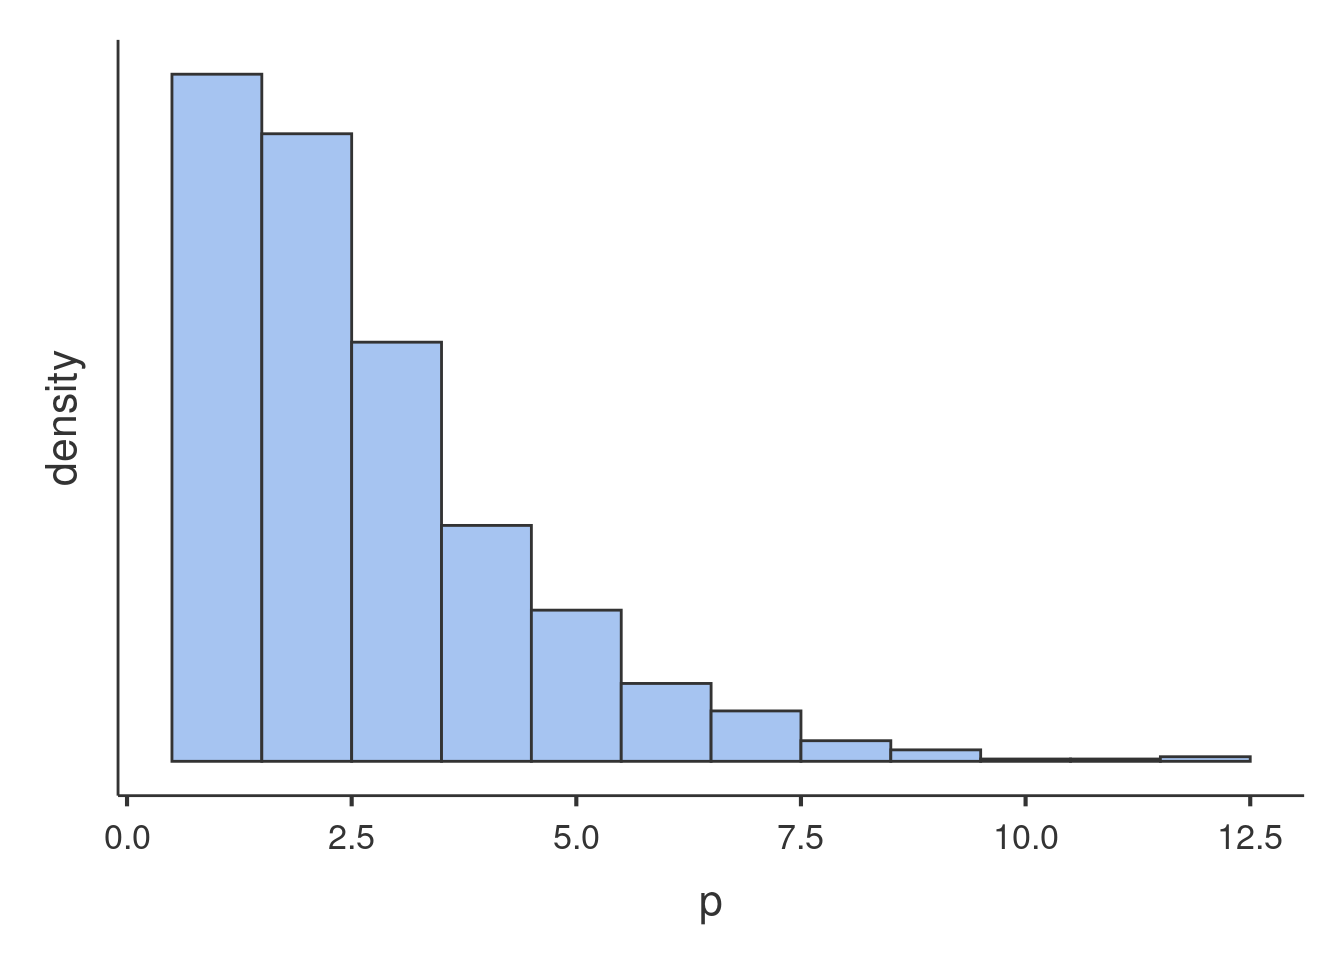
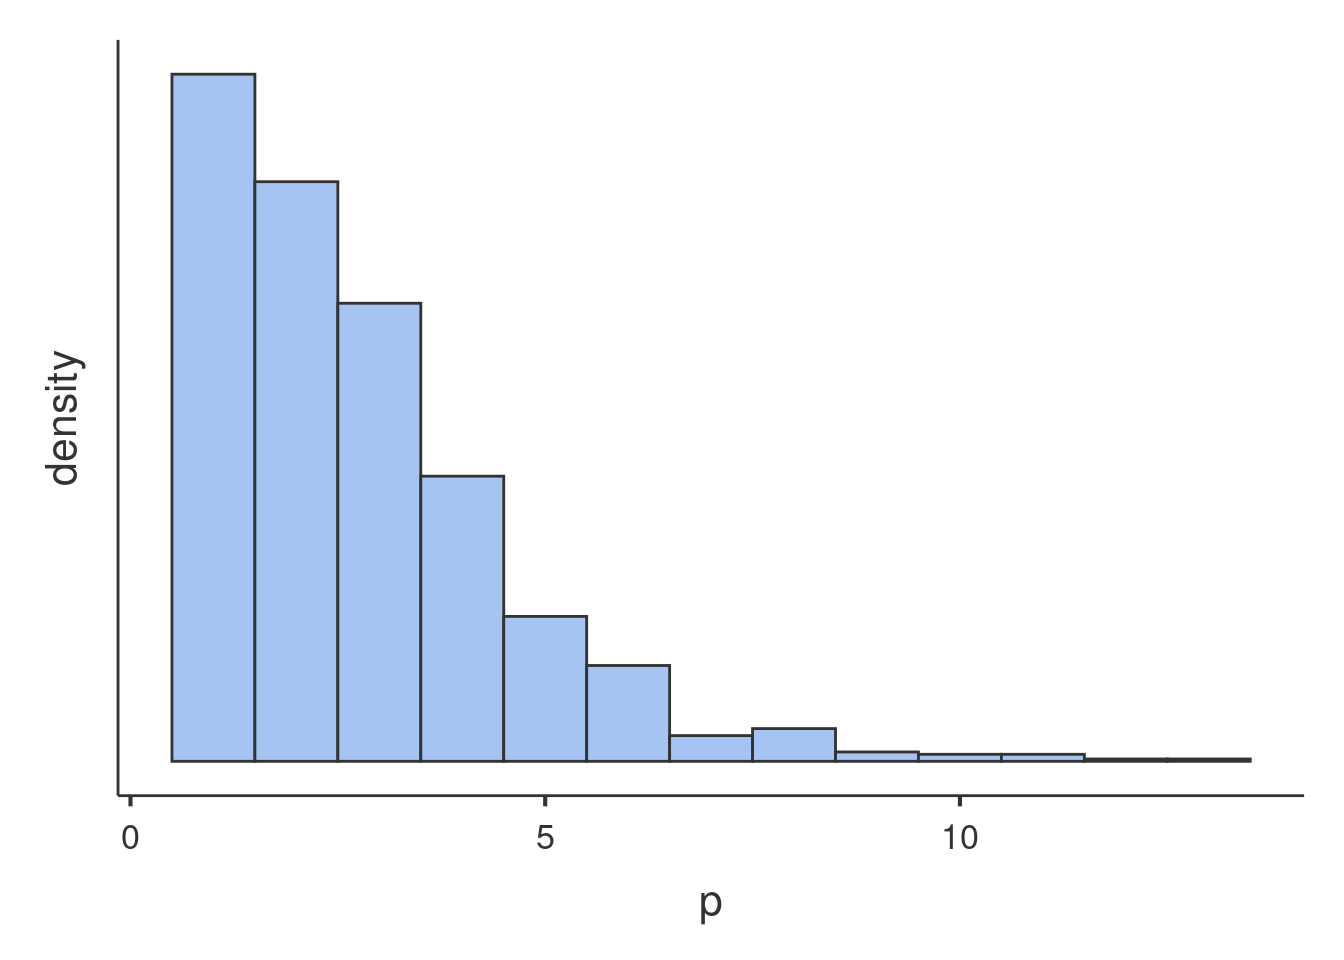
updates

diff --git a/docssource/glmmixed_example2.html b/docssource/glmmixed_example2.html
@@ -389,7 +389,7 @@ div.tocify {
 <p><img src="glmmixed_example2_files/figure-html/unnamed-chunk-2-1.png" width="672" /></p>
 <p>Glancing at the histogram makes it clear that the distribution is not normal, but it roughly resembles the Poisson distribution. Here is an example of Poisson distribution with equivalent mean.</p>
 <p><img src="glmmixed_example2_files/figure-html/unnamed-chunk-3-1.png" width="672" /></p>
-<p>We can see that the shape of our distribution is not qualitatively very different as compared with a theoretical Poisson distribution, so a Generalized Linear Model with Poisson distribition may work. However, we can check wheather our distribution is in line with the features of the Poisson dist by checking its mean and variance. The Poisson distribution has variance equal to the mean, in fact the simulated distribution in the histogram has <span class="math inline">\(\bar{x}=1.677\)</span> and <span class="math inline">\(s^2=1.66\)</span>. The <code>art</code> variable distribution has <span class="math inline">\(\bar{x}=1.693\)</span> and <span class="math inline">\(s^2=3.71\)</span>, with a ratio variance/mean of 2.191, which does not really qualify for Poisson dist. This looks like a case of <strong>overdispersion</strong>, <a href="http://bbolker.github.io/mixedmodels-misc/glmmFAQ.html#overdispersion">cf. here for details</a>. We will than consider a Negative Binomial model to account for possible overdispersion.</p>
+<p>We can see that the shape of our distribution is not qualitatively very different as compared with a theoretical Poisson distribution, so a Generalized Linear Model with Poisson distribition may work. However, we can check wheather our distribution is in line with the features of the Poisson dist by checking its mean and variance. The Poisson distribution has variance equal to the mean, in fact the simulated distribution in the histogram has <span class="math inline">\(\bar{x}=1.734\)</span> and <span class="math inline">\(s^2=1.731\)</span>. The <code>art</code> variable distribution has <span class="math inline">\(\bar{x}=1.693\)</span> and <span class="math inline">\(s^2=3.71\)</span>, with a ratio variance/mean of 2.191, which does not really qualify for Poisson dist. This looks like a case of <strong>overdispersion</strong>, <a href="http://bbolker.github.io/mixedmodels-misc/glmmFAQ.html#overdispersion">cf. here for details</a>. We will than consider a Negative Binomial model to account for possible overdispersion.</p>
 <p>An example of Negative Binomial distribution with equivalent mean and variance is here.</p>
 <p><img src="glmmixed_example2_files/figure-html/unnamed-chunk-4-1.png" width="672" /></p>
 <p>The second issue one needs to deal with is the structure of the data. We have seen that the students are not a random sample of students drawn independently one each other, but they are grouped by the program they are enrolled in. There are 83 programs, in each program there are on average 11 students. Because students in the same program may be more similar one each other than across programs, <code>programs</code> may cluster the scores of the dependent variable and create dependency in the data. To take dependency into the account, we will use a random intercepts model estimated with a Generalized Mixed Model.</p>

diff --git a/docssource/examples.html b/docssource/examples.html
@@ -12,7 +12,7 @@
 <meta name="author" content="(Marcello Gallucci)" />
 
 
-<title>Examples</title>
+<title>Infos</title>
 
 <script src="site_libs/jquery-1.11.3/jquery.min.js"></script>
 <meta name="viewport" content="width=device-width, initial-scale=1" />
@@ -368,15 +368,17 @@ div.tocify {
 
 
 
-<h1 class="title toc-ignore">Examples</h1>
+<h1 class="title toc-ignore">Infos</h1>
 <h4 class="author">(Marcello Gallucci)</h4>
 
 </div>
 
 
+<div id="examples" class="section level1">
+<h1>Examples</h1>
 <p>Here you can find some applications of GALMj module.</p>
-<div id="glm" class="section level1">
-<h1>GLM</h1>
+<div id="glm" class="section level2">
+<h2>GLM</h2>
 <ul>
 <li>
 <a href="glm_example1.html">GLM: Multiple regression, moderated regression, and simple slopes</a>
@@ -386,8 +388,8 @@ div.tocify {
 </li>
 </ul>
 </div>
-<div id="mixed-model" class="section level1">
-<h1>Mixed model</h1>
+<div id="mixed-model" class="section level2">
+<h2>Mixed model</h2>
 <ul>
 <li>
 <a href="mixed_example1.html">Mixed Models: Random coefficients regression</a>
@@ -400,8 +402,8 @@ div.tocify {
 </li>
 </ul>
 </div>
-<div id="generalized-linear-model" class="section level1">
-<h1>Generalized Linear Model</h1>
+<div id="generalized-linear-model" class="section level2">
+<h2>Generalized Linear Model</h2>
 <ul>
 <li>
 <a href="gzlm_example1.html">Multinomial analysis in jamovi</a>
@@ -414,8 +416,8 @@ div.tocify {
 </li>
 </ul>
 </div>
-<div id="generalized-mixed-models" class="section level1">
-<h1>Generalized Mixed Models</h1>
+<div id="generalized-mixed-models" class="section level2">
+<h2>Generalized Mixed Models</h2>
 <ul>
 <li>
 <a href="glmmixed_example1.html">Logistic mixed model in jamovi</a>
@@ -424,6 +426,7 @@ div.tocify {
 <a href="glmmixed_example2.html">Poisson and Negative Binomial mixed models in jamovi</a>
 </li>
 </ul>
+</div>
 </div>
 <div id="rosetta-store-results-across-software" class="section level1">
 <h1>Rosetta store: results across software</h1>
@@ -437,6 +440,26 @@ div.tocify {
 </li>
 <li>
 <a href="rosetta_moderation.html">Rosetta store: moderation</a>
+</li>
+</ul>
+</div>
+<div id="specs" class="section level1">
+<h1>Specs</h1>
+<ul>
+<li>
+<a href="details_glm_effectsize.html">Details: GLM effect size indices</a>
+</li>
+<li>
+<a href="gmixed_specs.html">Generalized mixed model module technical details</a>
+</li>
+<li>
+<a href="gzlm_specs.html">Generalized linear model module technical details</a>
+</li>
+<li>
+<a href="mixed_specs.html">Mixed Models module technical details</a>
+</li>
+<li>
+<a href="posthoc_specs.html">Post-hocs Details</a>
 </li>
 </ul>
 <h1>
